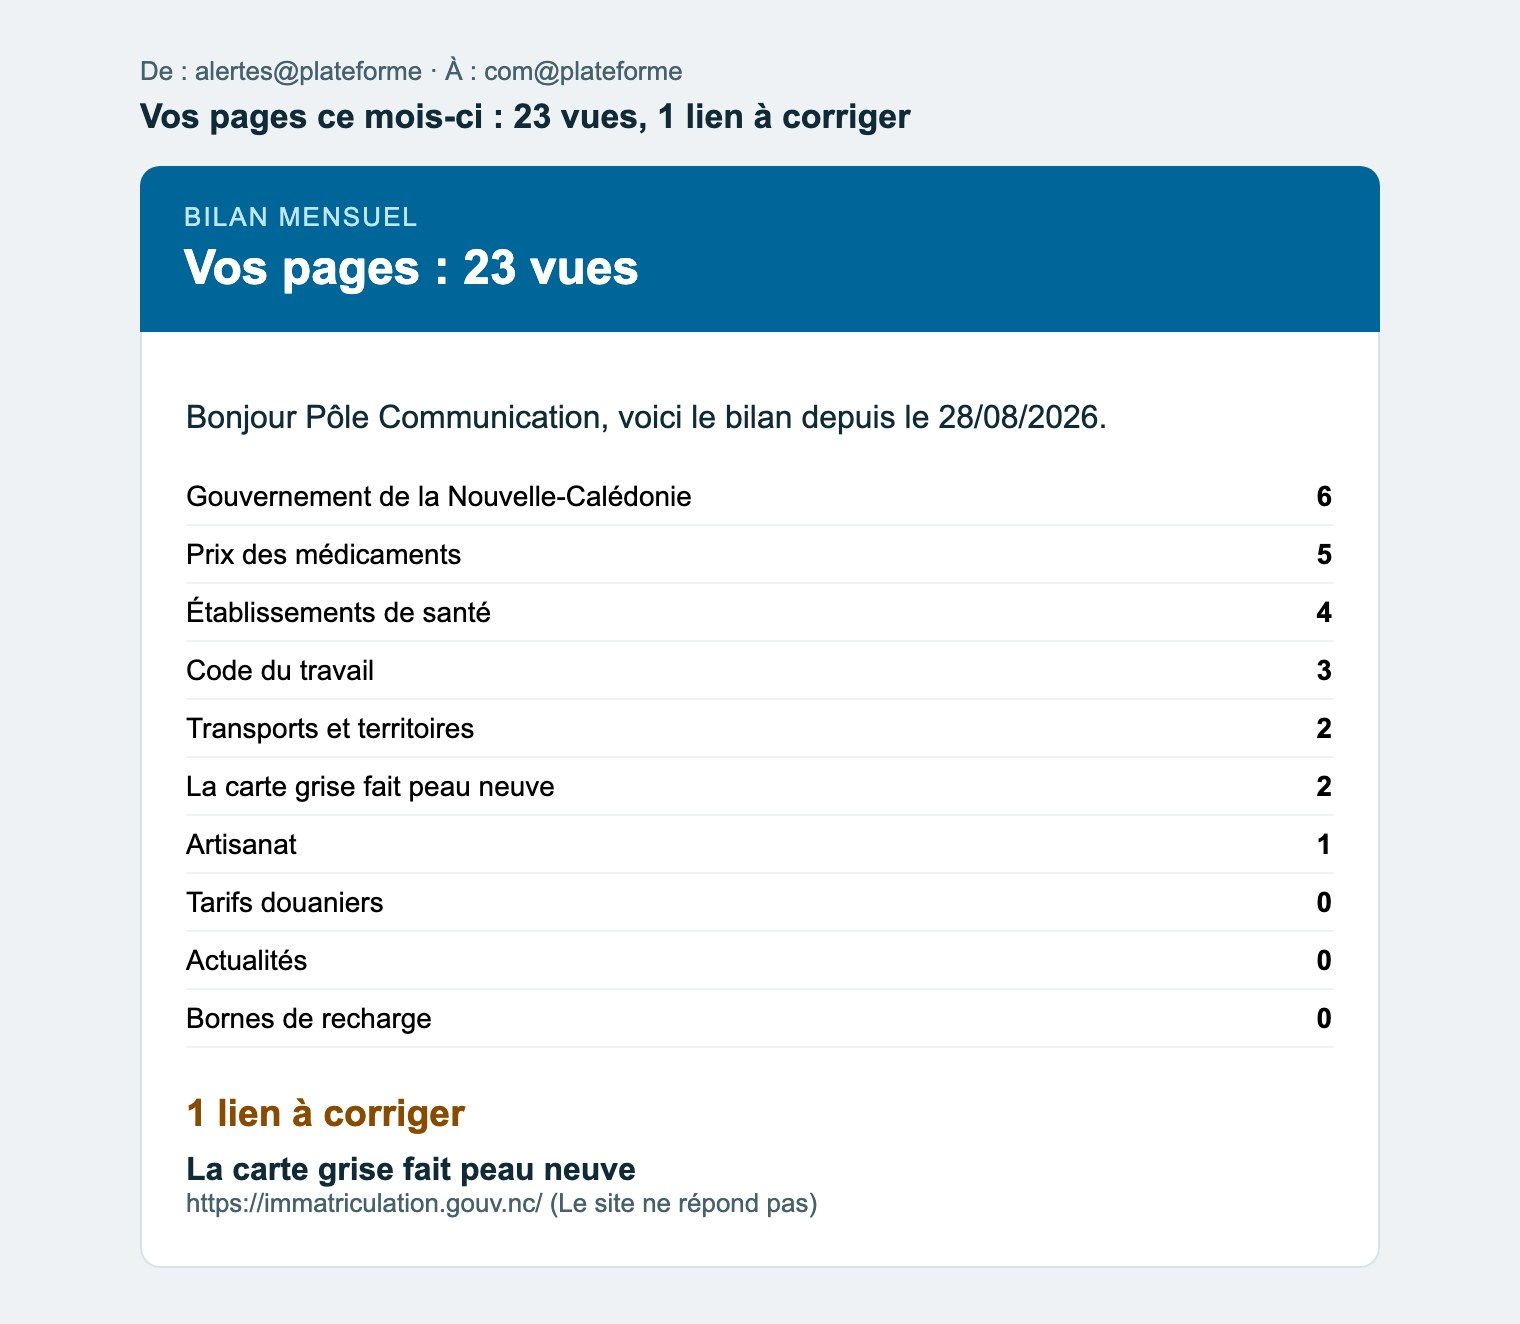
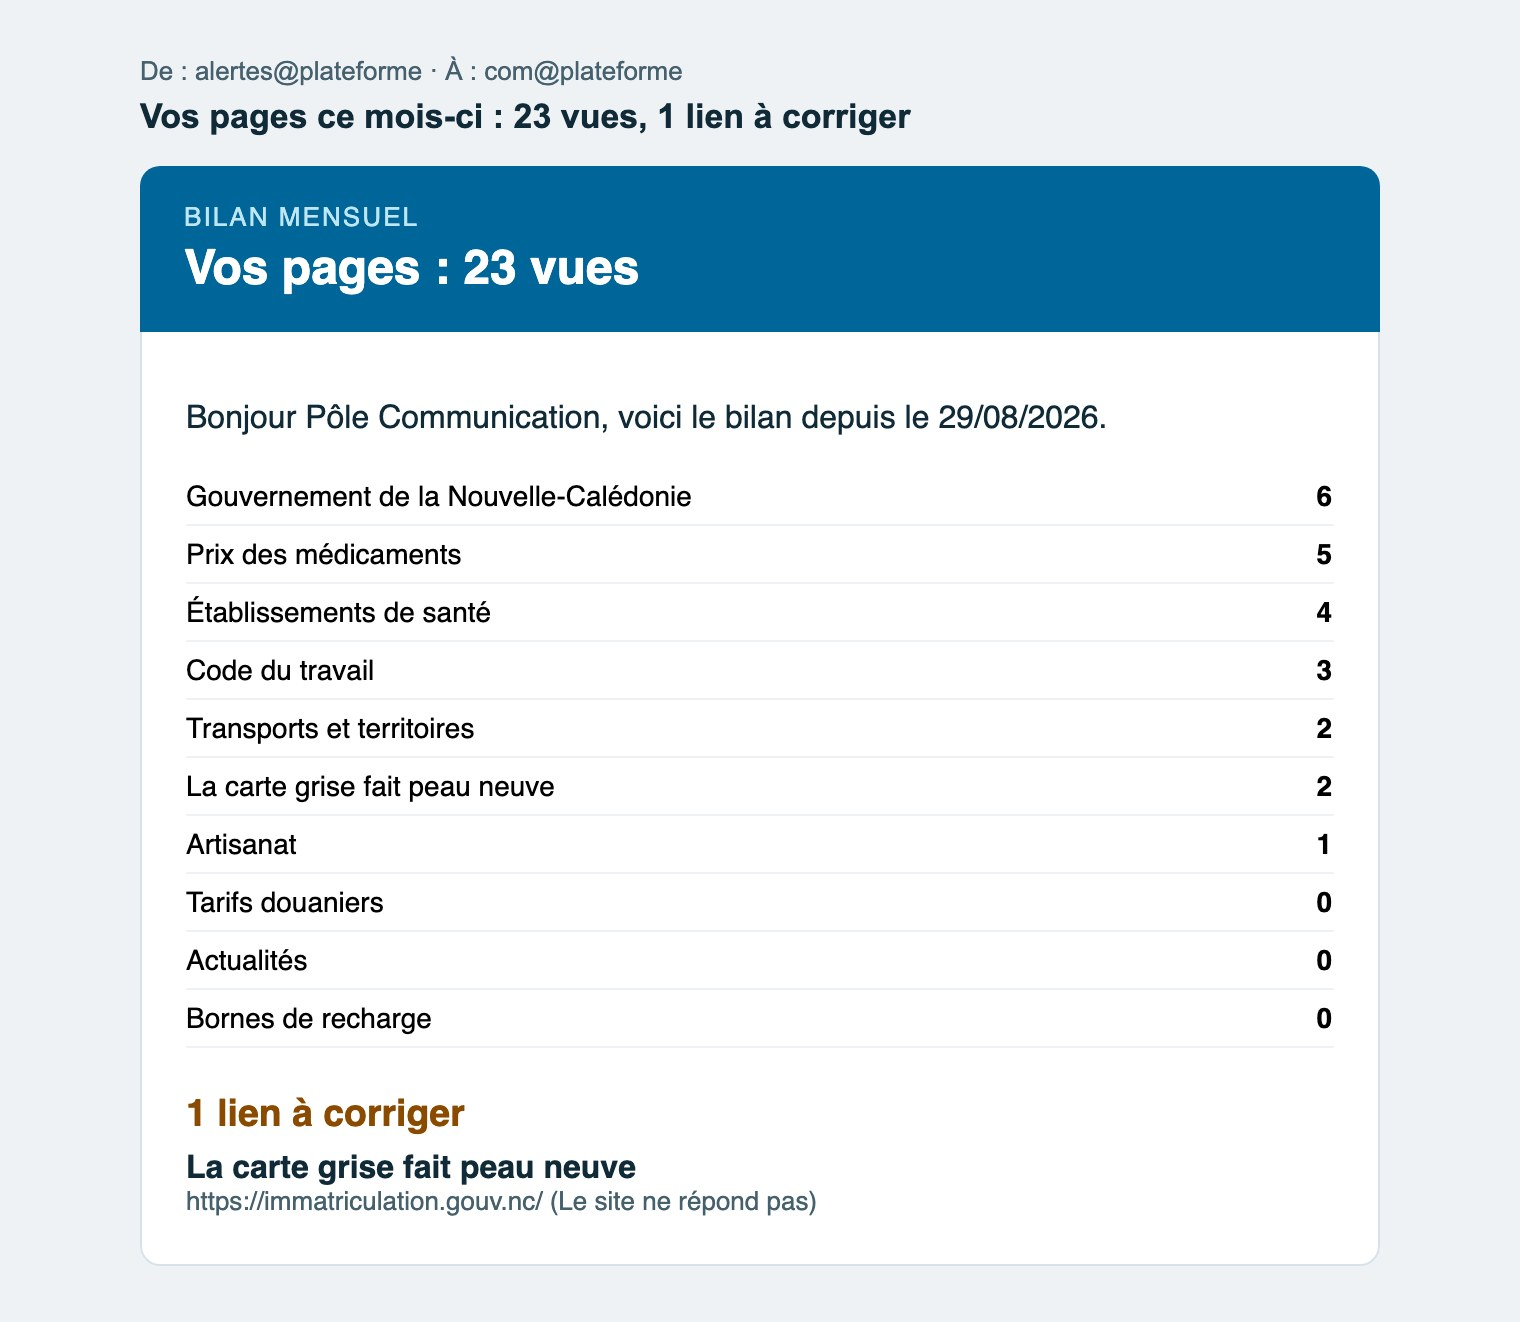
Instance en ligne : sites sur une seule adresse, visiteur en lecture seule, versions épinglées
HoteUnique choisit le site par cookie (/_site/<nom>/), rejoue les anciennes adresses (/_ancien/dittt/)
et réécrit les liens absolus entre sites ; VisiteurLectureSeule bloque toute écriture du compte public ;
durcir_demo tire de vrais mots de passe. Testé en local avec les réglages de production.
requirements.txt : Django 6.1.1 (la contrainte <6.1 excluait la version réellement utilisée).

diff --git a/deploiement/middleware.py b/deploiement/middleware.py
@@ -1,0 +1,64 @@
+"""Instance publique sur une seule adresse (hébergement gratuit) : les sites restent distingués par hôte.
+
+En local, gouv, drhfpnc et l'ancien dittt ont chacun leur nom (gouv.localhost...). En ligne, une seule
+adresse est disponible : ce middleware choisit l'hôte interne d'après un cookie posé par /_site/<nom>/,
+rejoue les anciennes adresses par /_ancien/dittt/<chemin>, et réécrit les liens absolus entre sites.
+Activé uniquement par les réglages « enligne ». La base et le code métier ne changent pas.
+"""
+import re
+
+from django.http import HttpResponseRedirect
+
+SITES = {"gouv": "gouv.localhost:8000", "drhfpnc": "drhfpnc.localhost:8000"}
+ANCIENS = {"dittt": "dittt.localhost:8000"}
+ABSOLU = re.compile(r"https?://(gouv|drhfpnc|dittt)\.localhost:8000/?")
+COOKIE = "site_demo"
+
+
+def lien(m):
+    nom = m.group(1)
+    return f"/_ancien/{nom}/" if nom in ANCIENS else f"/_site/{nom}/"
+
+
+class HoteUnique:
+    def __init__(self, get_response):
+        self.get_response = get_response
+
+    def __call__(self, request):
+        p = request.path_info
+        m = re.match(r"^/_site/(\w+)(/.*)?$", p)
+        if m and m.group(1) in SITES:
+            r = HttpResponseRedirect(m.group(2) or "/")
+            r.set_cookie(COOKIE, m.group(1), samesite="Lax", secure=request.is_secure(), httponly=True)
+            return r
+        m = re.match(r"^/_ancien/(\w+)(/.*)?$", p)
+        if m and m.group(1) in ANCIENS:
+            request.META["HTTP_HOST"] = ANCIENS[m.group(1)]
+            request.path_info = request.path = m.group(2) or "/"
+        else:
+            request.META["HTTP_HOST"] = SITES.get(request.COOKIES.get(COOKIE), SITES["gouv"])
+        reponse = self.get_response(request)
+        if reponse.has_header("Location"):
+            reponse["Location"] = ABSOLU.sub(lien, reponse["Location"])
+        if reponse.get("Content-Type", "").startswith("text/html") and not getattr(reponse, "streaming", False):
+            reponse.content = ABSOLU.sub(lien, reponse.content.decode()).encode()
+            if reponse.has_header("Content-Length"):
+                reponse["Content-Length"] = str(len(reponse.content))
+        return reponse
+
+
+class VisiteurLectureSeule:
+    """Le compte public « visiteur » ouvre tout le back-office mais n'enregistre rien."""
+
+    def __init__(self, get_response):
+        self.get_response = get_response
+
+    def __call__(self, request):
+        u = getattr(request, "user", None)
+        if (request.method not in ("GET", "HEAD", "OPTIONS") and u is not None and u.is_authenticated
+                and u.groups.filter(name="Visiteurs").exists()
+                and not request.path_info.startswith(("/admin/login", "/admin/logout", "/admin/editing-sessions/"))):
+            from django.contrib import messages
+            messages.warning(request, "Compte de démonstration en lecture seule : rien n'a été enregistré.")
+            return HttpResponseRedirect(request.META.get("HTTP_REFERER") or "/admin/")
+        return self.get_response(request)

diff --git a/deploiement/management/commands/durcir_demo.py b/deploiement/management/commands/durcir_demo.py
@@ -1,0 +1,41 @@
+"""Avant mise en ligne : mots de passe réels pour les comptes de travail, compte « visiteur » public en lecture seule.
+
+Usage : manage.py durcir_demo --visiteur-mdp <mot de passe publié>
+Les nouveaux mots de passe des comptes admin, pole-com et editeur-drh sont tirés au hasard et affichés une fois.
+"""
+import secrets
+
+from django.contrib.auth import get_user_model
+from django.contrib.auth.models import Group
+from django.contrib.sessions.models import Session
+from django.core.management.base import BaseCommand
+from wagtail.models import GroupPagePermission
+
+
+class Command(BaseCommand):
+    def add_arguments(self, p):
+        p.add_argument("--visiteur-mdp", required=True)
+
+    def handle(self, *a, **o):
+        U = get_user_model()
+        for nom in ("admin", "pole-com", "editeur-drh"):
+            u = U.objects.filter(username=nom).first()
+            if u:
+                mdp = secrets.token_urlsafe(14)
+                u.set_password(mdp)
+                u.save()
+                self.stdout.write(f"{nom} : {mdp}")
+        # Visiteurs : mêmes droits de consultation que le pôle communication, écritures bloquées par middleware.
+        source = Group.objects.get(name="Pôle communication")
+        g, _ = Group.objects.get_or_create(name="Visiteurs")
+        g.permissions.set(source.permissions.all())
+        GroupPagePermission.objects.filter(group=g).delete()
+        for gpp in GroupPagePermission.objects.filter(group=source):
+            GroupPagePermission.objects.create(group=g, page=gpp.page, permission=gpp.permission)
+        v = U.objects.filter(username="visiteur").first() or U.objects.create_user("visiteur", "", None, first_name="Visiteur")
+        v.set_password(o["visiteur_mdp"])
+        v.is_superuser = v.is_staff = False
+        v.save()
+        v.groups.set([g])
+        Session.objects.all().delete()
+        self.stdout.write(self.style.SUCCESS("Comptes durcis ; compte public : visiteur (lecture seule)."))

diff --git a/plateforme/settings/enligne.py b/plateforme/settings/enligne.py
@@ -1,0 +1,27 @@
+"""Réglages de l'instance publique (PythonAnywhere). Secrets lus dans l'environnement, jamais dans le dépôt."""
+import os
+
+from .base import *  # noqa: F401,F403
+
+DEBUG = False
+SECRET_KEY = os.environ["DJANGO_SECRET_KEY"]
+ADRESSE = os.environ.get("DEMO_ADRESSE", "sassiscales.pythonanywhere.com")
+ALLOWED_HOSTS = [ADRESSE, "gouv.localhost", "drhfpnc.localhost", "dittt.localhost"]
+CSRF_TRUSTED_ORIGINS = [f"https://{ADRESSE}"]
+WAGTAILADMIN_BASE_URL = f"https://{ADRESSE}"
+SECURE_PROXY_SSL_HEADER = ("HTTP_X_FORWARDED_PROTO", "https")
+SESSION_COOKIE_SECURE = CSRF_COOKIE_SECURE = True
+SECURE_CONTENT_TYPE_NOSNIFF = True
+X_FRAME_OPTIONS = "DENY"
+INSTALLED_APPS = [*INSTALLED_APPS, "deploiement"]
+MIDDLEWARE = ["deploiement.middleware.HoteUnique", *MIDDLEWARE]
+MIDDLEWARE.insert(MIDDLEWARE.index("django.contrib.messages.middleware.MessageMiddleware") + 1,
+                  "deploiement.middleware.VisiteurLectureSeule")
+STORAGES["staticfiles"]["BACKEND"] = "django.contrib.staticfiles.storage.ManifestStaticFilesStorage"
+
+if os.environ.get("DEMO_TEST_HTTP"):  # essai local sans HTTPS uniquement
+    SESSION_COOKIE_SECURE = CSRF_COOKIE_SECURE = False
+    CSRF_TRUSTED_ORIGINS.append(f"http://{ADRESSE}")
+    STORAGES["staticfiles"]["BACKEND"] = "django.contrib.staticfiles.storage.StaticFilesStorage"
+if os.environ.get("DEMO_DB"):
+    DATABASES["default"]["NAME"] = os.environ["DEMO_DB"]

diff --git a/README.md b/README.md
@@ -111,6 +111,13 @@ plus vues et les liens morts relevés dans ses pages.
 .venv/bin/python manage.py envoyer_bilan_mensuel   # UC007 : un e-mail par contributeur (vues + liens à corriger)
 ```
 
+## Instance en ligne (une seule adresse)
+
+`plateforme/settings/enligne.py` + application `deploiement` : sur un hébergement à adresse unique, les
+sites restent distingués par hôte interne, choisi par `/_site/gouv/` ou `/_site/drhfpnc/` ; les anciennes
+adresses se rejouent par `/_ancien/dittt/<chemin>`. `manage.py durcir_demo` remplace les mots de passe de
+démonstration et crée un compte « visiteur » qui ouvre tout le back-office sans rien enregistrer.
+
 ## Limites connues de la démonstration
 
 Habillage provisoire (le design system du GNC le remplacera) ; base SQLite (PostgreSQL en cible) ;
